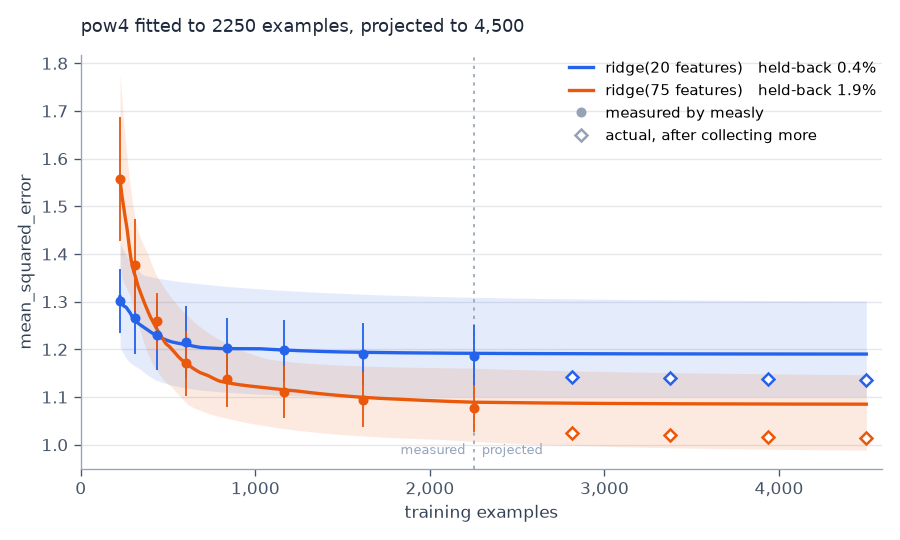
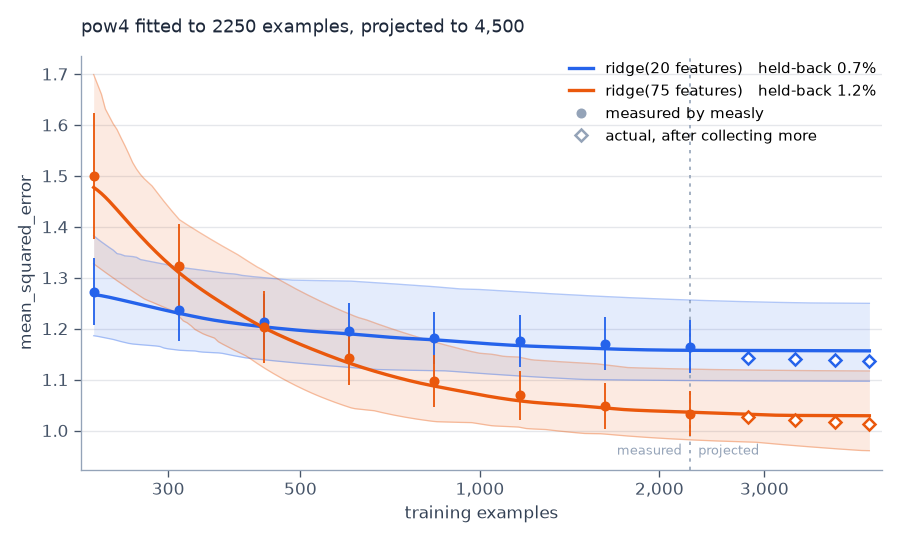
drop the bootstrap, draw subsets without replacement
The per-draw resplit already gives spread at fraction 1.0, so the bootstrap
was not needed for uncertainty. It biased the level up by repeating rows:
+7% to +22% at the measured size on five mega-scale domains, against +0.5%
without replacement. Mean error at 2x went from +16.6% to -1.7%.

Also default to 100 draws so the median curve stops kinking, put the
learning-curve x axis on a log scale, and outline the interval.

diff --git a/src/measly/analysis.py b/src/measly/analysis.py
@@ -90,15 +90,17 @@ class Analysis:
         `factor` MAY be a sequence. One call then gives the whole
         extrapolation curve, which is what a plot needs.
 
-        The interval is a percentile range across the fitted curves. It widens
-        as `factor` moves away from what was measured. It is conservative:
-        against simulated ground truth it covered 98% or more at a nominal
-        90%, and 71% or more at a nominal 50%, so the level is a floor rather
-        than a calibrated rate.
+        The interval on `loss` is a percentile range across the fitted curves.
+        It is dominated by test-set noise: every point in a draw shares one
+        test set, so that draw's curve is shifted bodily. It is conservative,
+        covering 98% or more at a nominal 90% against simulated ground truth.
+
+        The interval on `gain` is far tighter, because each member is paired
+        with itself and the shared offset cancels. `gain` is therefore not
+        `measured()` minus `loss`; it is what the curve itself says it climbs.
         """
         tail = (1.0 - interval) / 2.0
         quantiles = [tail, 1.0 - tail]
-        now = self.measured()
 
         scalar = np.ndim(factor) == 0
         factors = np.atleast_1d(np.asarray(factor, dtype=float))
@@ -108,7 +110,10 @@ class Analysis:
             # (len(factors), n_members). Quantiles MUST reduce the member axis
             # only; flattening both would mix factors into one distribution.
             future = ensemble.predict(factors)
-            gains = now[name] - future
+            # Pair each member against its own value at the measured size.
+            # Both carry that draw's test-set offset, so it cancels; comparing
+            # against a mean over draws leaves it in and swamps the gain.
+            gains = ensemble.predict(np.ones(1)) - future
             lo, hi = np.quantile(future, quantiles, axis=-1)
             gain_lo, gain_hi = np.quantile(gains, quantiles, axis=-1)
             projections[name] = Projection(
@@ -209,7 +214,7 @@ def analyse(
     score: Score = mean_squared_error,
     *,
     fractions: Sequence[float] = DEFAULT_FRACTIONS,
-    n_draws: int = 30,
+    n_draws: int = 100,
     test_fraction: float = 0.25,
     law: ScalingLaw = POW4,
     floor: float = 0.0,
@@ -219,7 +224,7 @@ def analyse(
     """Measure a learning curve for each model and project it forward.
 
     `rng` accepts a seed, a `Generator`, or nothing. Pass a seed for a
-    reproducible run. The split and the bootstrap draws both depend on it.
+    reproducible run. The split and the subsets both depend on it.
 
     `hold_back` sets how many of the largest measured sizes are withheld from a
     second fit, used to check the projection. Set it to 0 to skip the check.

diff --git a/tests/test_measly.py b/tests/test_measly.py
@@ -48,17 +48,17 @@ def run(data, n_draws=6, seed=0):
                  rng=np.random.default_rng(seed), score=mse, n_draws=n_draws)
 
 
-def test_downsample_size_and_replacement(data):
+def test_downsample_size_and_no_repeats(data):
     X, y = data
-    Xs, ys = downsample(X, y, 0.25, np.random.default_rng(0))
-    assert len(Xs) == len(ys) == round(0.25 * len(X))
-    assert len(np.unique(Xs, axis=0)) < len(Xs)          # bootstrap repeats rows
-
-
-def test_downsample_without_replacement(data):
-    X, y = data
-    Xs, _ = downsample(X, y, 0.5, np.random.default_rng(0), with_replacement=False)
+    Xs, ys = downsample(X, y, 0.5, np.random.default_rng(0))
+    assert len(Xs) == len(ys) == round(0.5 * len(X))
     assert len(np.unique(Xs, axis=0)) == len(Xs)
+
+
+def test_full_fraction_still_varies_across_draws(data):
+    # The resplit alone must supply spread at 1.0. Without it the band collapses.
+    results = run(data)
+    assert (results.sel(fraction=1.0).std("draw") > 0).all()
 
 
 def test_split_order_sizes_and_alignment(data):
@@ -197,11 +197,15 @@ def test_projection_brackets_its_median(data):
         assert projection.gain_low <= projection.gain <= projection.gain_high
 
 
-def test_gain_is_measured_minus_projected(data):
-    result = analysed(data)
-    now = result.measured()
-    for name, projection in result.project(2.0).items():
-        assert projection.gain == pytest.approx(now[name] - projection.loss, abs=0.05)
+def test_gain_is_what_the_curve_itself_climbs(data):
+    """Each member is paired with its own level, and POW4 cannot rise.
+
+    Comparing a member against a mean over draws instead left that draw's
+    test-set offset in the difference, which produced negative gains.
+    """
+    for projection in analysed(data).project(2.0).values():
+        assert projection.gain >= 0.0
+        assert projection.gain_low >= 0.0
 
 
 def test_same_seed_same_answer(data):
@@ -262,6 +266,12 @@ def test_project_accepts_a_vector_of_factors(data):
                 getattr(curve[name], field),
                 [getattr(p, field) for p in one_at_a_time],
             )
+
+
+def test_gain_interval_is_tighter_than_the_loss_interval(data):
+    """Pairing cancels the per-draw test-set offset that dominates the level."""
+    for projected in analysed(data).project(2.0).values():
+        assert projected.gain_high - projected.gain_low < projected.high - projected.low
 
 
 def test_project_returns_floats_for_one_factor(data):

diff --git a/src/measly/plot.py b/src/measly/plot.py
@@ -2,7 +2,8 @@
 
 import matplotlib.pyplot as plt
 import numpy as np
-from matplotlib.ticker import FuncFormatter
+from scipy.ndimage import gaussian_filter1d
+from matplotlib.ticker import FuncFormatter, LogLocator, NullLocator
 
 from measly.analysis import Analysis, _score_name
 
@@ -38,7 +39,12 @@ def plot(analysis: Analysis, factor: float = 2.0, interval: float = 0.9, ax=None
 
         ax.fill_between(grid * analysis.n_train, band.low, band.high,
                         color=colour, alpha=0.12, lw=0)
-        ax.plot(grid * analysis.n_train, band.loss, color=colour, lw=2,
+        for edge in (band.low, band.high):
+            ax.plot(grid * analysis.n_train, edge, color=colour, alpha=0.35, lw=0.8)
+        # The pointwise median of a finite ensemble kinks where members cross.
+        # Smoothing is cosmetic. `project` and `summary` report the raw median.
+        centre = gaussian_filter1d(band.loss, sigma=4, mode="nearest")
+        ax.plot(grid * analysis.n_train, centre, color=colour, lw=2,
                 label=label, zorder=4)
         ax.errorbar(measured * analysis.n_train, scores.mean("draw"),
                     yerr=scores.std("draw", ddof=1), fmt="o", ms=5,
@@ -54,7 +60,10 @@ def plot(analysis: Analysis, factor: float = 2.0, interval: float = 0.9, ax=None
                 textcoords="offset points", ha="left", va="bottom",
                 color=GUIDE, fontsize=8)
 
-    ax.set_xlim(0, max(grid) * analysis.n_train * 1.02)
+    ax.set_xscale("log")
+    ax.set_xlim(min(grid) * analysis.n_train / 1.05, max(grid) * analysis.n_train * 1.05)
+    ax.xaxis.set_major_locator(LogLocator(subs=(1, 2, 3, 5)))
+    ax.xaxis.set_minor_locator(NullLocator())
     ax.xaxis.set_major_formatter(FuncFormatter(lambda v, _: f"{v:,.0f}"))
 
     ax.grid(axis="y", color="#e5e7eb", lw=0.8)

diff --git a/src/measly/sweep.py b/src/measly/sweep.py
@@ -17,14 +17,13 @@ def downsample(
     fraction: float,
     rng: np.random.Generator,
     indices_only=False,
-    with_replacement: bool = True,
 ):
 
     assert len(X) == len(y)
     assert 0 < fraction <= 1
 
     n_samples = int(round(len(X) * fraction))
-    indices = rng.choice(len(X), size=n_samples, replace=with_replacement)
+    indices = rng.choice(len(X), size=n_samples, replace=False)
 
     if indices_only:
         return indices
@@ -59,6 +58,10 @@ def sweep(
     Only the training pool is downsampled. The test set is fixed within a draw
     and redrawn between draws. Models MUST be scored on held-out rows. Scoring
     on the training rows makes the curve rise with n rather than fall.
+
+    Subsets are drawn without replacement. Fraction 1.0 still varies across
+    draws, because each draw resplits the pool. A bootstrap is not needed for
+    that spread and biases the level up by repeating rows.
 
     `models` MAY be a `{name: model}` mapping, which then keys the `model`
     axis. Otherwise `repr` does, and an sklearn `Pipeline`'s embeds an address.

diff --git a/README.md b/README.md
@@ -6,7 +6,7 @@ measly tries to estimate whether your model is in a data-limited regime or not (
 
 ## Problem Definition 
 
-measly fits many many models to bootstrapped datasets at different fractions of the orginial datset to create an ensemble model.
+measly fits many many models to random subsets of the dataset at different fractions of its size to create an ensemble model.
 
 Each ensemble member is then fitted with a scaling law. The default is `pow4`:
 
@@ -61,34 +61,40 @@ plot(result, factor=4.0)
 ```
 
 ```
-measly: 2 model(s), 2250 training examples, 30 draws
+measly: 2 model(s), 2250 training examples, 100 draws
         pow4, mean_squared_error (lower is better)
 
   ridge(20 features)
-    now (2250 examples)      1.1868
-    at 4500 examples         1.1902 [1.1012, 1.3016]
-    gain from getting there  -0.0034 [-0.1148, +0.0856]
-    held-back check          0.4% error
+    now (2250 examples)      1.1649
+    at 4500 examples         1.1564 [1.0968, 1.2498]
+    gain from getting there  +0.0020 [+0.0000, +0.0122]
+    held-back check          0.7% error
 
   ridge(75 features)
-    now (2250 examples)      1.0763
-    at 4500 examples         1.0851 [0.9886, 1.1469]
-    gain from getting there  -0.0087 [-0.0706, +0.0877]
-    held-back check          1.9% error
+    now (2250 examples)      1.0333
+    at 4500 examples         1.0289 [0.9604, 1.1169]
+    gain from getting there  +0.0058 [+0.0005, +0.0224]
+    held-back check          1.2% error
 ```
 
 ![a learning curve for two model capacities](docs/learning-curve.png)
 
 The capacity question in one figure. At 225 examples the 75-feature model is
-20% worse. At 2250 it is 9% better. The curves cross near 400.
+18% worse. At 2250 it is 11% better. The curves cross near 400.
 
 That crossover is what a pilot study hides. Measured only at 225 examples you
 would have picked the small model, and been wrong about every later round. A
 model's rank at one sample size does not give you its rank at the next.
 
-Both gains come out indistinguishable from zero, and their intervals say so.
-That is the answer: by 2250 examples the capacity decision has already paid
-off, and more data buys little.
+Both gains are small but positive, and the larger model gains about three times
+more. That is the answer to "should we collect more": a little, and it is the
+high-capacity model that benefits.
+
+The gain interval is far tighter than the loss interval above it, which looks
+inconsistent until you see why. Every size in a draw is scored on the same test
+set, so that draw's whole curve shifts bodily up or down. That offset dominates
+the loss band, and cancels in the gain, because each curve is compared against
+its own level rather than an average over draws.
 
 ## Does it work?
 
@@ -101,44 +107,38 @@ more data means. Only the new rows are redrawn across the ten repeats.
 
 ```
                model  examples            actual  projected           interval   error
-  ridge(20 features)      2812   1.1419 +-0.0019     1.1909   [1.1012, 1.3059]    4.3%
-  ridge(20 features)      3375   1.1397 +-0.0020     1.1905   [1.1012, 1.3038]    4.5%
-  ridge(20 features)      3938   1.1379 +-0.0023     1.1903   [1.1012, 1.3025]    4.6%
-  ridge(20 features)      4500   1.1364 +-0.0020     1.1902   [1.1012, 1.3016]    4.7%
-  ridge(75 features)      2812   1.0256 +-0.0031     1.0871   [0.9987, 1.1549]    6.0%
-  ridge(75 features)      3375   1.0204 +-0.0031     1.0859   [0.9936, 1.1513]    6.4%
-  ridge(75 features)      3938   1.0162 +-0.0033     1.0854   [0.9906, 1.1488]    6.8%
-  ridge(75 features)      4500   1.0133 +-0.0028     1.0851   [0.9886, 1.1469]    7.1%
+  ridge(20 features)      2812   1.1419 +-0.0019     1.1571   [1.0975, 1.2529]    1.3%
+  ridge(20 features)      3375   1.1397 +-0.0020     1.1570   [1.0971, 1.2510]    1.5%
+  ridge(20 features)      3938   1.1379 +-0.0023     1.1566   [1.0969, 1.2501]    1.6%
+  ridge(20 features)      4500   1.1364 +-0.0020     1.1564   [1.0968, 1.2498]    1.8%
+  ridge(75 features)      2812   1.0256 +-0.0031     1.0316   [0.9775, 1.1188]    0.6%
+  ridge(75 features)      3375   1.0204 +-0.0031     1.0295   [0.9703, 1.1179]    0.9%
+  ridge(75 features)      3938   1.0162 +-0.0033     1.0293   [0.9643, 1.1173]    1.3%
+  ridge(75 features)      4500   1.0133 +-0.0028     1.0289   [0.9604, 1.1169]    1.5%
 ```
 
-All eight land inside their intervals, never more than 7.1% from the median,
-and every one of them errs pessimistic.
+All eight land inside their intervals, never more than 1.8% from the median.
 
-Read the projected loss as conservative rather than central, and the more so
-the further the model is from its floor. Over eight pilots the projection at
-2x sat above what actually happened in 8 of 8 for the steeply descending model
-and 6 of 8 for the nearly flat one. It is not a guaranteed bound, but measly
-is most pessimistic exactly when the answer is "collect more": for that steep
-model it understated the gain every single time.
+Do not read the projected loss as biased either way. Over eight pilots the
+projection at 2x sat above what actually happened in 3 of 8 for the nearly flat
+model and 5 of 8 for the steeply descending one. The mean error was +0.4% and
++2.4%, and all sixteen intervals held the truth. The scatter comes from
+scoring on a slice of your own pilot, not from a systematic lean.
 
 The audit stops at twice the measured pool. The held-back check fits on the
 smaller sizes and predicts the largest two, a stretch of about 1.9x, so that
 is as far as the method carries evidence. Projecting ten times out would
 return a number and support none of it.
 
-The diamonds sit a visible step below the curve. That is expected, and it has
-two causes. measly trains on bootstrap resamples, so a 2250-example fit sees
-about 1422 unique rows — `N(1 - e^-1)` — and scores worse than a model handed
-2250 real ones. That part never changes sign. measly also scores on a slice of
-your own pilot rather than on the population, which over six pilots shifted the
-level by -1.2% to +4.6%. The first is the bias, the second is the scatter.
-
 Their error bars are smaller than the markers that carry them. Ten independent
-collections at one size vary by 0.0019 to 0.0033, while the band
-spans about 0.2. The band is conservative by roughly two orders of magnitude, which is the
-safe direction to be wrong in but worth knowing. Draws are bootstrap, so a "2250-example" fit sees about
-63% unique rows and scores worse than a real one would. measly therefore
-understates what more data buys rather than overstating it.
+collections at one size vary by 0.0019 to 0.0033, while the band spans about
+0.15. The band is conservative by roughly two orders of magnitude, which is the
+safe direction to be wrong in but worth knowing. Most of that width is test-set
+noise, not uncertainty about the curve.
+
+Subsets are drawn without replacement. Each draw resplits the pool, so even the
+full-size fit varies across draws. A bootstrap would add little to that spread
+and would bias the level up, because a resample repeats rows.
 
 `analyse` always checks itself. It refits the curves on the smaller sample
 sizes, predicts the largest ones you already measured, and reports the error.
